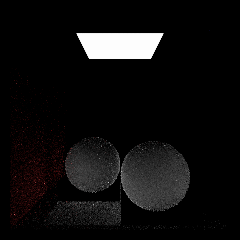
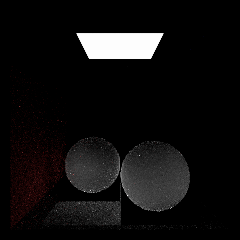
sync debug modifications, suspect bbox bug

diff --git a/src/pathtracer/pathtracer.cpp b/src/pathtracer/pathtracer.cpp
@@ -14,6 +14,8 @@ constexpr bool LOG_CAMERA_RAYS = false;
 constexpr bool LOG_AREA_LIGHT_RAYS = true;
 static thread_local RNG log_rng(0x15462662); //separate RNG for logging a fraction of rays to avoid changing result when logging enabled
 
+constexpr float RAY_MINIMUM_BOUND = 0.001f;
+
 Spectrum Pathtracer::sample_direct_lighting_task4(RNG &rng, const Shading_Info& hit) {
 	//A3T4: Pathtracer - direct light sampling (basic sampling)
 
@@ -25,18 +27,18 @@ Spectrum Pathtracer::sample_direct_lighting_task4(RNG &rng, const Shading_Info& 
     // Compute exact amount of light coming from delta lights:
 	//  (these don't need to be sampled)
     Spectrum radiance = sum_delta_lights(hit);
-	Vec2 custom_dist_bounds(.01f, INFINITY);
+	Vec2 custom_dist_bounds(RAY_MINIMUM_BOUND, INFINITY);
 
 	//TODO: ask hit.bsdf to sample an in direction that would scatter out along hit.out_dir
-	Vec3 sampled_in_dir = hit.bsdf.scatter(rng, hit.out_dir, hit.uv).direction;
-	Spectrum attenuation = hit.bsdf.evaluate(hit.out_dir,sampled_in_dir, hit.uv);
+	Vec3 in_dir_local = hit.bsdf.scatter(rng, hit.out_dir, hit.uv).direction;
+	Spectrum attenuation = hit.bsdf.evaluate(hit.out_dir,in_dir_local, hit.uv);
 
 	//TODO: rotate that direction into world coordinates
-	Vec3 world_sampled_in_dir = hit.object_to_world.rotate(sampled_in_dir);
+	Vec3 in_dir_world = hit.object_to_world.rotate(in_dir_local);
 
 	//TODO: construct a ray travelling in that direction
 	// NOTE: because we want emitted light only, can use depth = 0 for the ray
-	Ray new_in_ray(hit.pos, world_sampled_in_dir, custom_dist_bounds, 0);
+	Ray new_in_ray(hit.pos, in_dir_world, custom_dist_bounds, 0);
 	
 
 	//TODO: trace() the ray to get the emitted light (first part of the return value)
@@ -44,7 +46,7 @@ Spectrum Pathtracer::sample_direct_lighting_task4(RNG &rng, const Shading_Info& 
 
 	//TODO: weight properly depending on the probability of the sampled scattering direction and add to radiance
 	radiance_new = radiance_new * attenuation ;
-	radiance_new = radiance_new / hit.bsdf.pdf(sampled_in_dir, hit.out_dir);
+	radiance_new = radiance_new / hit.bsdf.pdf(in_dir_local, hit.out_dir);
 	radiance += radiance_new;
 	return radiance;
 }
@@ -73,7 +75,7 @@ Spectrum Pathtracer::sample_indirect_lighting(RNG &rng, const Shading_Info& hit)
 	Shading_Info info = {*bsdf,         world_to_object, object_to_world, result.position, out_dir,
 	                     result.normal, result.uv, ray.depth};
 	*/
-	Vec2 custom_dist_bounds(.1f, INFINITY);
+	Vec2 custom_dist_bounds(RAY_MINIMUM_BOUND, INFINITY);
 
 	//Compute a single-sample Monte Carlo estimate of the indirect lighting contribution
 	// at a given ray intersection point.
@@ -81,16 +83,19 @@ Spectrum Pathtracer::sample_indirect_lighting(RNG &rng, const Shading_Info& hit)
 	//NOTE: this function and sample_direct_lighting_task4() perform very similar tasks.
 
 	//TODO: ask hit.bsdf to sample an in direction that would scatter out along hit.out_dir
+	Vec3 out_dir_local = hit.out_dir;
+	Vec3 out_dir_world = hit.object_to_world.rotate(out_dir_local);
 
-	Vec3 sampled_in_dir = hit.bsdf.scatter(rng, hit.out_dir, hit.uv).direction;
-	Spectrum attenuation = hit.bsdf.evaluate(hit.out_dir,sampled_in_dir, hit.uv);
+	Vec3 in_dir_local = hit.bsdf.scatter(rng, out_dir_local, hit.uv).direction;
+	Vec3 in_dir_world = hit.object_to_world.rotate(in_dir_local);
+
+	Spectrum attenuation = hit.bsdf.evaluate(out_dir_local,in_dir_local, hit.uv);
 
 	//TODO: rotate that direction into world coordinates
-	Vec3 world_sampled_in_dir = hit.object_to_world.rotate(sampled_in_dir);
 
 	//TODO: construct a ray travelling in that direction
 	// NOTE: be sure to reduce the ray depth! otherwise infinite recursion is possible
-	Ray new_in_ray(hit.pos, world_sampled_in_dir, custom_dist_bounds, hit.depth - 1);
+	Ray new_in_ray(hit.pos, in_dir_world, custom_dist_bounds, hit.depth-1);
 	if constexpr (LOG_AREA_LIGHT_RAYS) {
 		if (log_rng.coin_flip(0.00001f)) log_ray(new_in_ray, 100.0f);
 	}
@@ -100,7 +105,7 @@ Spectrum Pathtracer::sample_indirect_lighting(RNG &rng, const Shading_Info& hit)
 
 	//TODO: weight properly depending on the probability of the sampled scattering direction and set radiance
 	radiance = radiance * attenuation;
-	radiance = radiance / hit.bsdf.pdf(sampled_in_dir, hit.out_dir);
+	radiance = radiance / hit.bsdf.pdf(in_dir_local, hit.out_dir);
     return radiance;
 }
 
@@ -624,7 +629,7 @@ float Pathtracer::area_lights_pdf(Vec3 from, Vec3 dir) {
 	return n_strategies ? pdf / n_strategies : 0.0f;
 }
 
-Spectrum Pathtracer::sum_delta_lights(const Shading_Info& hit) {
+Spectrum Pathtracer:: sum_delta_lights(const Shading_Info& hit) {
 
 	if (hit.bsdf.is_specular()) return {};
 
